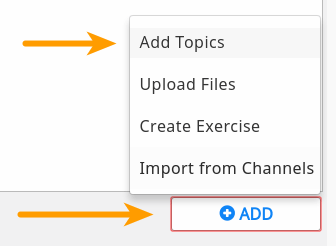
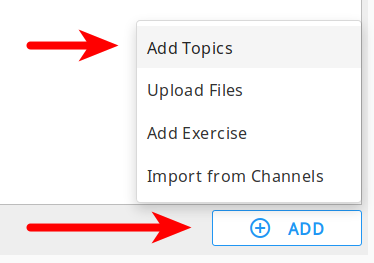
Styles and first new screenshots

Changed region(s): [[0.0298, 0.0, 0.9821, 0.9675]]

diff --git a/docs/_static/theme_overrides.css b/docs/_static/theme_overrides.css
@@ -7,9 +7,40 @@ blockquote {
 div.figure {
     padding: 4px;
     background-color: #fff;
+   /* border: 1px solid #ddd;
+    border-radius: 4px;*/
+    margin: auto 5px;
+}
+
+.rst-content blockquote {
+	margin-left: 5px;
+}
+
+.rst-content .section ul li {
+    margin-bottom: 8px;
+}
+
+.figure img {
+    padding: 4px;
     border: 1px solid #ddd;
     border-radius: 4px;
     margin: auto 5px;
+}
+
+.rst-content div.figure p.caption {
+    padding-right: 5px;
+}
+
+span.caption-text {
+    overflow:hidden; display:block;
+    margin-left: 6px;
+    border-bottom: 1px solid #ccc;
+    padding-bottom: 2px;
+    font-size: smaller; 
+}
+
+code.docutils.literal.notranslate {
+    padding-top: 4px;
 }
 
 .wy-table-responsive table td {
@@ -17,6 +48,20 @@ div.figure {
    this as on RTD they are loaded after this stylesheet */
 white-space: normal !important;
 vertical-align: top !important;
+}
+
+/* Change background color to match Kolibri brand */
+ .wy-side-nav-search {
+    background-color: #996189 !important;
+ }
+
+.wy-nav-top {
+    background: #996189 !important;   
+}
+
+/* Improve the contrast for the version number.*/
+.wy-side-nav-search > div.version {
+    color: rgba(255,255,255,0.9);
 }
 
 .material-icons {
@@ -47,4 +92,45 @@ vertical-align: top !important;
 img {
 	height: 1.2em;
 	vertical-align: text-bottom;
+}
+
+.outline {
+    padding-bottom: 1px !important;
+    border: 2px solid;
+    border-radius: 50%;
+}
+
+.rst-content span.guilabel {
+    background-color: #fafbfc;
+    border: 1px solid #c6cbd1;
+    border-bottom-color: #959da5;
+    border-radius: 3px;
+    box-shadow: inset 0 -1px 0 #959da5;
+    color: #444d56;
+    font-size: 80%;
+    font-weight: normal;
+    padding: 4px 5px 3px;
+    margin-top: -2px;
+    font-family: Consolas, Menlo, Courier, "Courier New", monospace;
+}
+
+.rst-content div.highlight {
+    background: #feffe9 !important;
+}
+
+.blue-plus {
+	padding-bottom: 1px !important;
+	background-color: #fff;
+	border-radius: 50%;
+	color: #2196f3;
+}
+
+.blue {
+	color: #2196f3;
+	font-weight: bold;
+}
+
+// Reported upstream: https://github.com/rtfd/sphinx_rtd_theme/issues/722
+.admonition {
+  clear: both;
 }

diff --git a/docs/conf.py b/docs/conf.py
@@ -153,7 +153,7 @@ rst_prolog = """
 .. |trash| replace:: :raw-html:`<span class="material-icons" aria-hidden="true">delete</span><span class="visuallyhidden">Manage deleted content</span>`
 .. |sync| replace:: :raw-html:`<span class="material-icons" aria-hidden="true">sync</span><span class="visuallyhidden">Sync</span>`
 .. |plus| replace:: :raw-html:`<span class="material-icons" aria-hidden="true">add</span><span class="visuallyhidden">Add new</span>`
-.. |plus-c| replace:: :raw-html:`<span class="material-icons" aria-hidden="true">add_circle_outline</span><span class="visuallyhidden">Plus</span>`
+.. |plus-c| replace:: :raw-html:`<span class="material-icons blue-plus" aria-hidden="true">add_circle_outline</span>`
 .. |home| replace:: :raw-html:`<span class="material-icons" aria-hidden="true">home</span><span class="visuallyhidden">Home</span>`
 .. |close| replace:: :raw-html:`<span class="material-icons" aria-hidden="true">clear</span><span class="visuallyhidden">Close</span>`
 .. |ellipsis| replace:: :raw-html:`<span class="material-icons" aria-hidden="true">more_horiz</span><span class="visuallyhidden">Ellipsis</span>`
@@ -163,6 +163,10 @@ rst_prolog = """
 .. |sort-down| replace:: :raw-html:`<span class="material-icons" aria-hidden="true">keyboard_arrow_down</span><span class="visuallyhidden">Move down</span>`
 .. |coach| replace:: :raw-html:`<span class="material-icons local_library" aria-hidden="true">local_library</span><span class="visuallyhidden">Coach resource</span>`
 .. |br| replace:: :raw-html:`<br /><br />`
+
+.. role:: blue
+    :class: blue
+
 """
 
 

diff --git a/docs/add_content.rst b/docs/add_content.rst
@@ -65,7 +65,7 @@ Edit Channel Content Tools
 #. **Show ID** button to display the channel ID or token
 #. **Publish** button to save changes in channel content
 #. Topic container pane
-#. |plus-c| **ADD** button to :ref:`add topics <add_topics>`, :ref:`upload content <upload>`, :ref:`create exercises <exercises>`, and :ref:`import content <import_content>`.
+#. :guilabel:`+ ADD` button to :ref:`add topics <add_topics>`, :ref:`upload content <upload>`, :ref:`create exercises <exercises>`, and :ref:`import content <import_content>`.
 
 
 .. _add_topics:
@@ -75,7 +75,7 @@ Add Topics to Channel
 
 To create one or more new topics in a content channel, follow these steps.
 
-#. Click |plus-c| **ADD** button.
+#. Click |plus-c| :blue:`ADD` button.
 #. Select **Add Topics** option.
 
    .. figure:: img/add-topics.png
